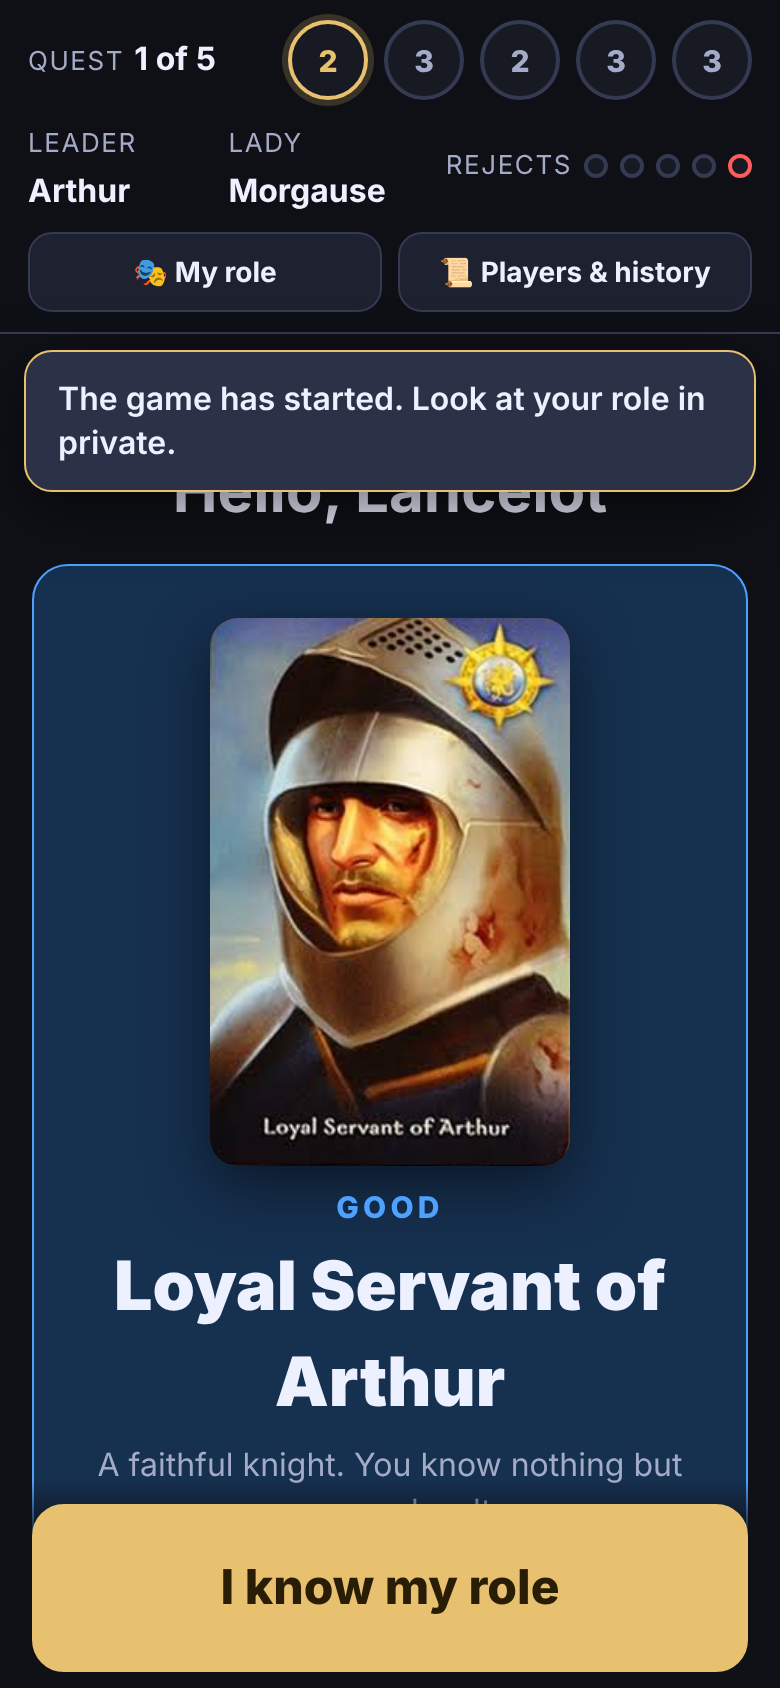
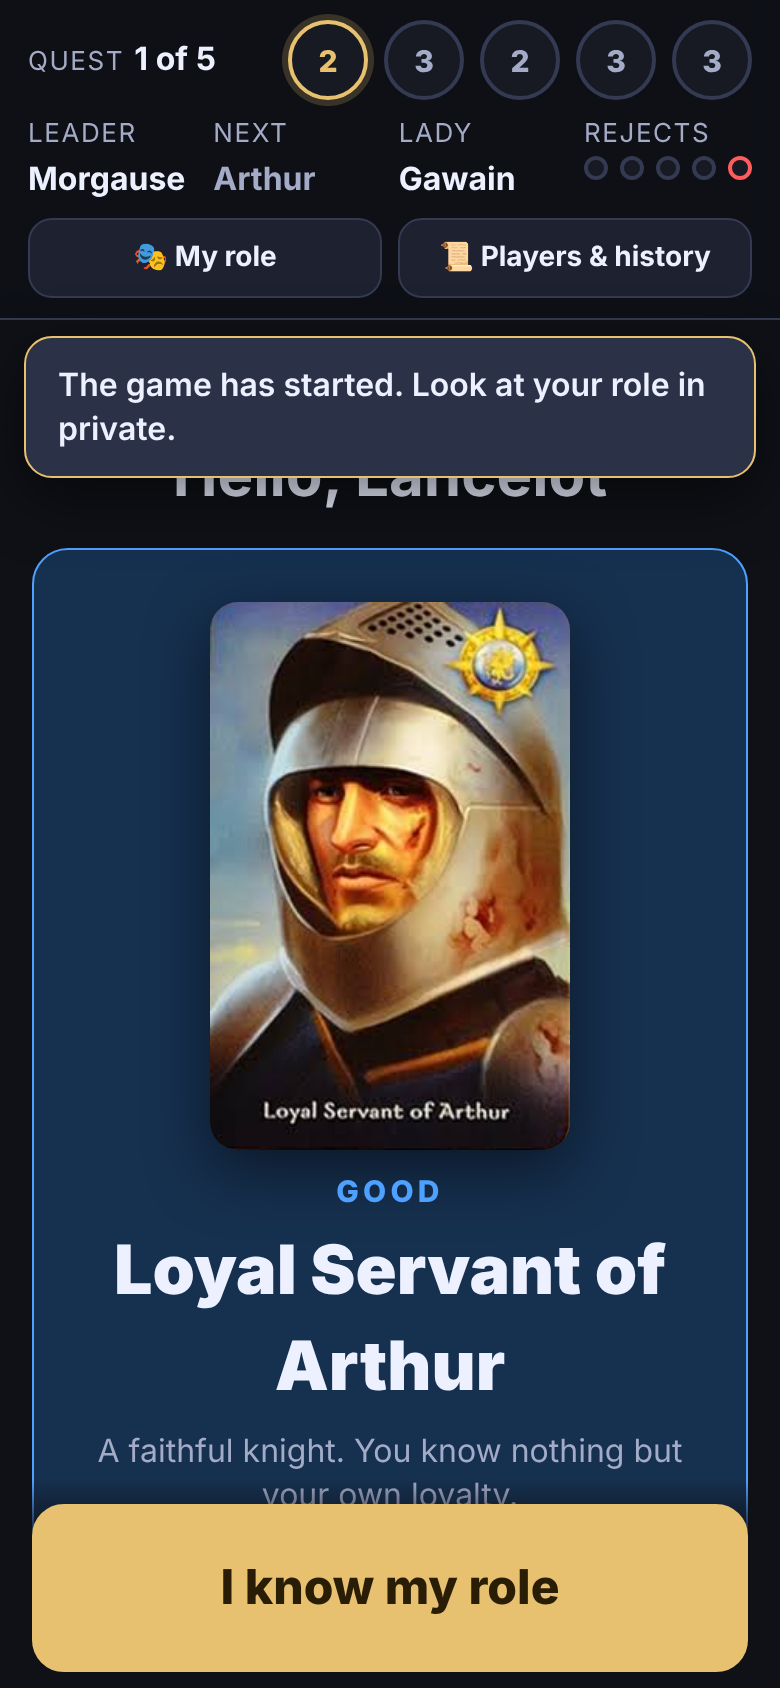
Show the next leader in the status bar and the rotation order in the Players panel
Claude-Session: https://claude.ai/code/session_01L9td7i8WK9tKyVLFpHJSvk

Changed region(s): [[0.0308, 0.0616, 0.9846, 0.8934], [0.8308, 0.8318, 0.8615, 0.8934], [0.1231, 0.8318, 0.1538, 0.8934]]

diff --git a/server/src/main/resources/web/app.js b/server/src/main/resources/web/app.js
@@ -201,6 +201,13 @@
 
   // ------------------------------------------------------------ helpers
   function me() { return ui.state ? ui.state.you : null; }
+  /** Leadership passes in seat (join) order; everyone may know who is next. */
+  function nextLeaderId(s) {
+    if (!s || !s.leaderId) return null;
+    const ps = s.players;
+    const i = ps.findIndex((p) => p.id === s.leaderId);
+    return i < 0 ? null : ps[(i + 1) % ps.length].id;
+  }
   function players() { return ui.state ? ui.state.players : []; }
   function byId(id) { return players().find((p) => p.id === id); }
   function nameOf(id) { const p = byId(id); return p ? p.name : '?'; }
@@ -297,16 +304,16 @@
       return `<span class="q ${cls}" title="Quest ${i + 1}: team of ${size}">${size}${star}</span>`;
     }).join('');
     const rejects = [0, 1, 2, 3, 4].map((i) => `<span class="dot ${i < s.rejections ? 'on' : ''} ${i === 4 ? 'last' : ''}"></span>`).join('');
-    const lady = s.ladyEnabled && s.ladyHolderId ? `<div><span class="label">Lady</span> <span class="value">${esc(nameOf(s.ladyHolderId))}</span></div>` : '';
     statusEl.innerHTML = `
       <div class="status-row">
         <div><span class="label">Quest</span> <span class="value">${s.quest} of 5</span></div>
         <div class="track">${track}</div>
       </div>
-      <div class="status-row">
-        <div style="min-width:0"><span class="label">Leader</span> <span class="value">${esc(nameOf(s.leaderId))}</span></div>
-        ${lady}
-        <div class="rejects" title="Rejected proposals this quest: ${s.rejections} of 5"><span class="label">Rejects</span> ${rejects}</div>
+      <div class="status-grid">
+        <div class="cell"><span class="label">Leader</span><span class="value">${esc(nameOf(s.leaderId))}</span></div>
+        <div class="cell"><span class="label">Next</span><span class="value muted">${esc(nameOf(nextLeaderId(s)))}</span></div>
+        ${s.ladyEnabled && s.ladyHolderId ? `<div class="cell"><span class="label">Lady</span><span class="value">${esc(nameOf(s.ladyHolderId))}</span></div>` : ''}
+        <div class="cell" title="Rejected proposals this quest: ${s.rejections} of 5"><span class="label">Rejects</span><span class="rejects">${rejects}</span></div>
       </div>
       <div class="status-tools">
         <button class="icon-btn" data-action="showRole">🎭 My role</button>
@@ -576,9 +583,9 @@
   // Everyone's connection status; the host can open a disconnected seat to be rejoined by name.
   function playersHtml(s) {
     const rejoinable = (ui.server && ui.server.rejoinable) || [];
-    return `<ul class="list">${s.players.map((p) => `
-      <li>${avatar(p)}<span class="name">${esc(p.name)}${isMe(p.id) ? ' <span class="muted">(you)</span>' : ''}</span>
-        ${p.id === s.leaderId ? '<span class="tag gold">Leader</span>' : ''}
+    return `${s.leaderId ? '<p class="muted" style="font-size:14px;margin:0 0 6px">Leadership passes down this list in order (and wraps around).</p>' : ''}<ul class="list">${s.players.map((p, i) => `
+      <li><span class="muted" style="width:18px;text-align:right">${i + 1}</span>${avatar(p)}<span class="name">${esc(p.name)}${isMe(p.id) ? ' <span class="muted">(you)</span>' : ''}</span>
+        ${p.id === s.leaderId ? '<span class="tag gold">Leader</span>' : p.id === nextLeaderId(s) ? '<span class="tag">Next leader</span>' : ''}
         ${s.ladyHolderId === p.id ? '<span class="tag">Lady</span>' : ''}
         <span class="conn ${p.connected ? '' : 'off'}" title="${p.connected ? 'connected' : 'disconnected'}"></span>
         ${s.you.isHost && !p.connected && !isMe(p.id) ? (rejoinable.includes(p.id)

diff --git a/server/src/main/resources/web/style.css b/server/src/main/resources/web/style.css
@@ -287,3 +287,8 @@ th { color: var(--muted); font-size: 13px; text-transform: uppercase; letter-spa
 .voted-note { text-align: center; color: var(--muted); font-size: 15px; margin-top: 8px; }
 .btn.chosen { box-shadow: 0 0 0 4px rgba(255, 255, 255, .35); }
 .btn.unchosen { opacity: .45; }
+
+.status-grid { display: flex; gap: 10px; max-width: 560px; margin: 8px auto 0; }
+.status-grid .cell { flex: 1; min-width: 0; display: flex; flex-direction: column; gap: 2px; }
+.status-grid .cell:last-child { flex: 0 0 auto; }
+.status-grid .value { display: block; }
